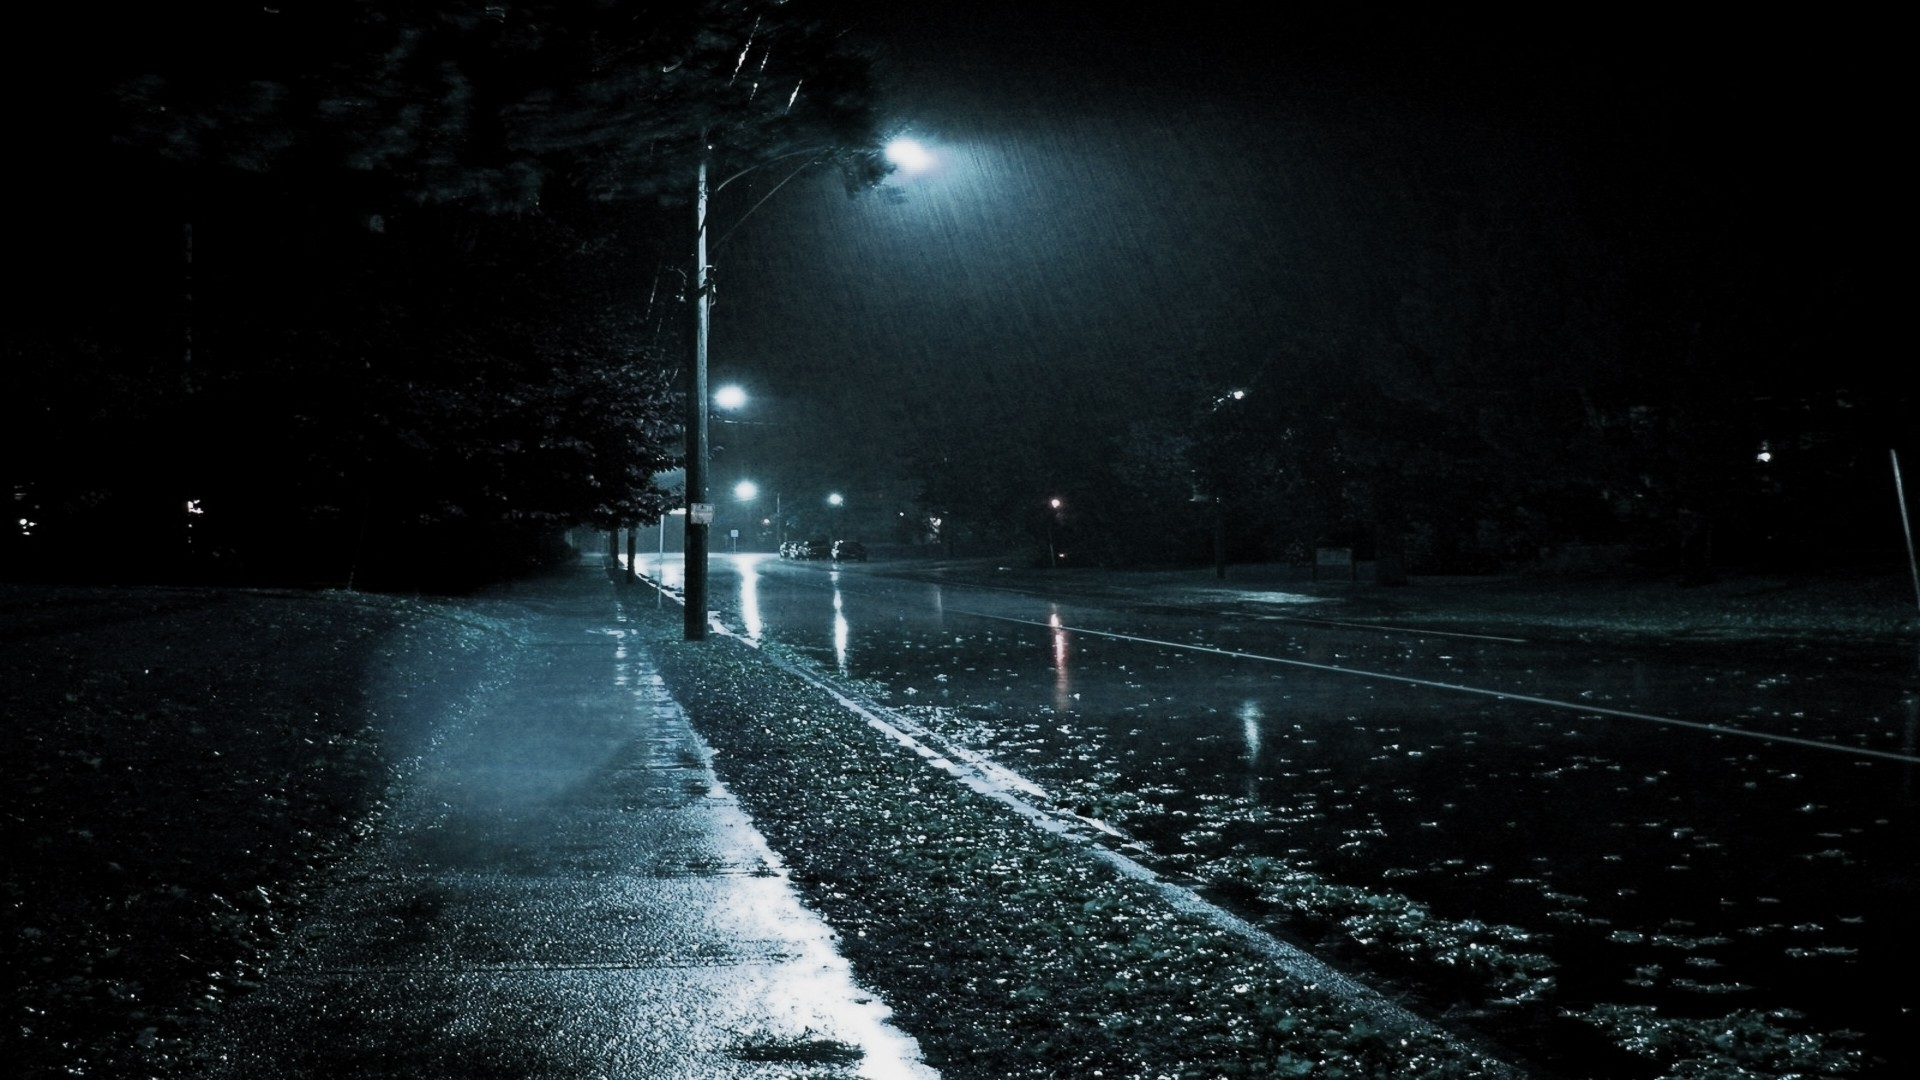
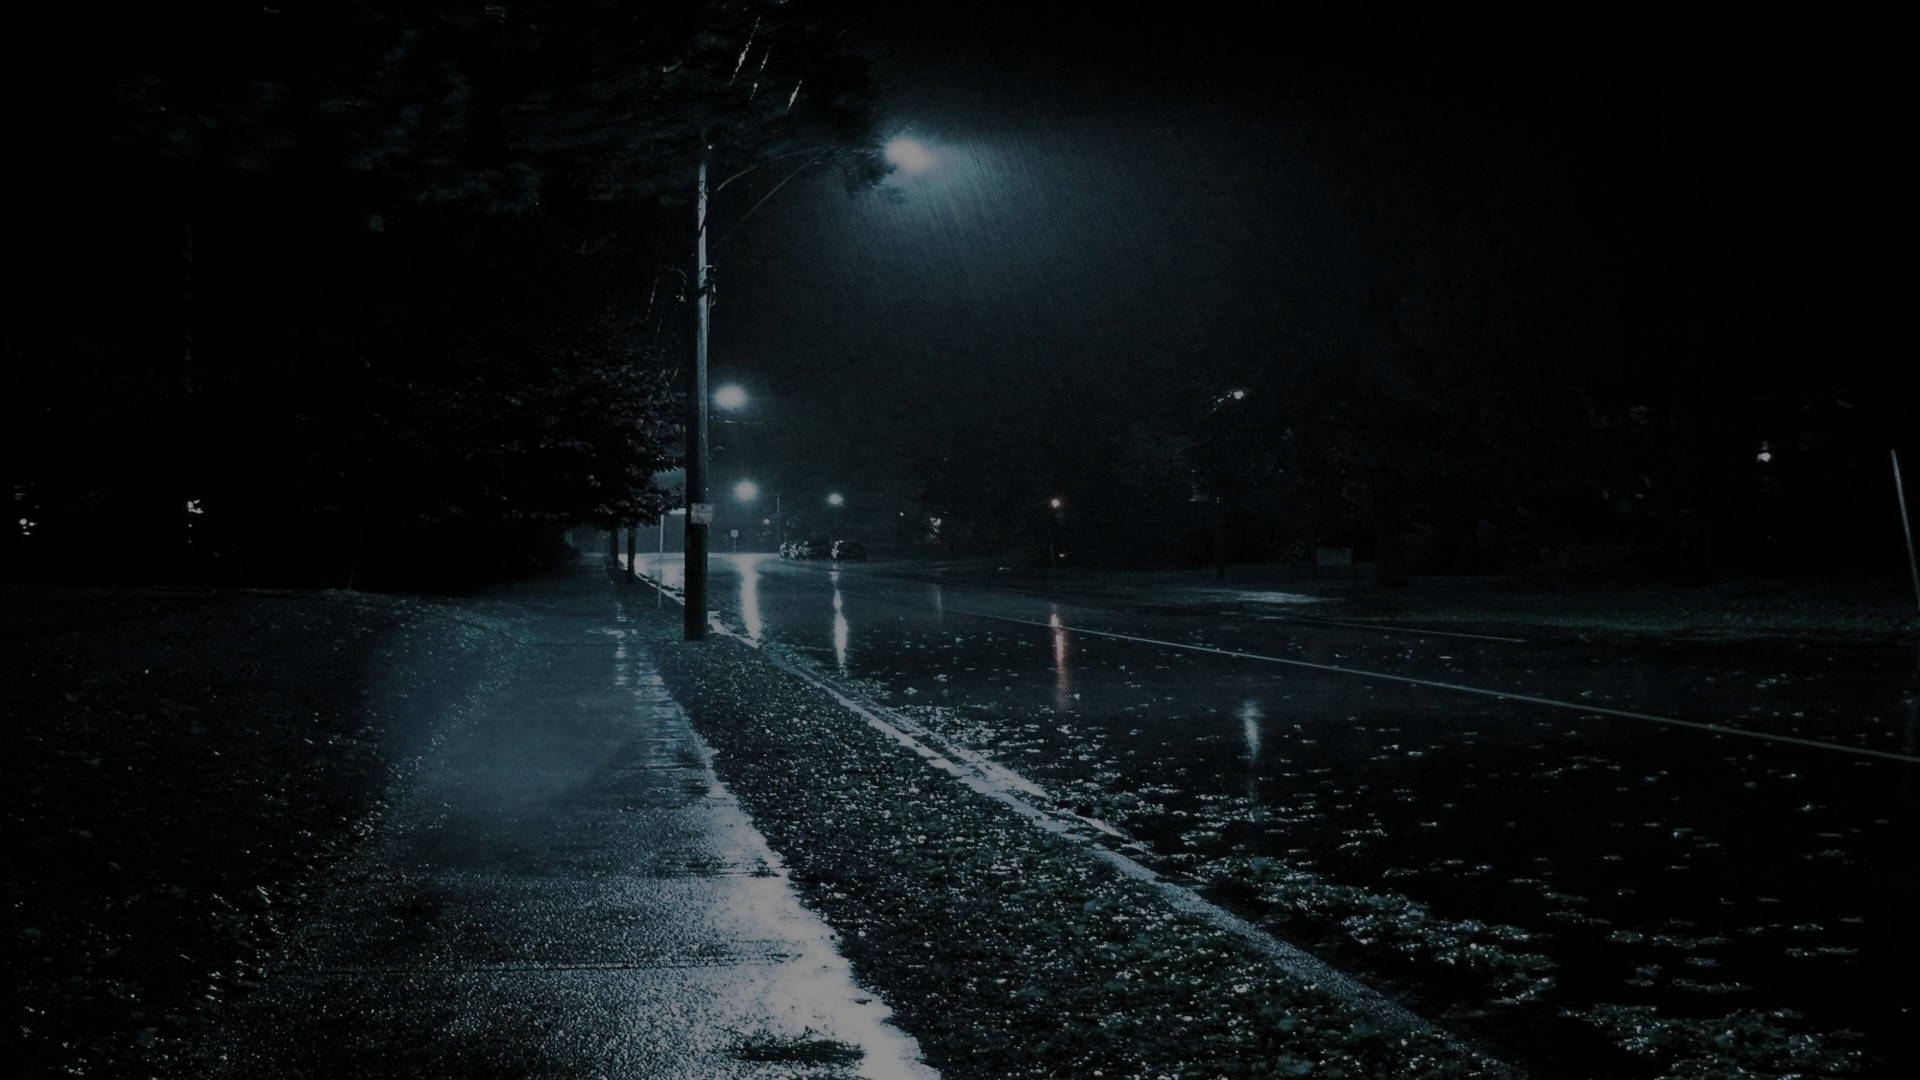
Adds a tag to give random background

diff --git a/duxomusic/templates/base.html b/duxomusic/templates/base.html
@@ -1,4 +1,4 @@
-{% load cms_tags staticfiles sekizai_tags cache menu_tags %}
+{% load cms_tags staticfiles sekizai_tags cache menu_tags duxomusic_tags %}
 
 <!doctype html>
 <html lang="fr">
@@ -41,10 +41,11 @@
         <link href="{{ STATIC_URL }}css/screen.css" rel="stylesheet" type="text/css"/>
 
 		{% render_block "css" %}
+        {% get_bg as bg %}
 
         <style>
             body, #sb-site {
-                background: url({{ STATIC_URL }}img/sunset.jpg) no-repeat center top / 100% auto black fixed;
+            background: url({{ STATIC_URL }}img/{{ bg }}) no-repeat center center black fixed;
             }
         </style>
 	</head>
@@ -58,12 +59,6 @@
                 <h1>
                     <a href="/" title="Accueil"><img src="{{ STATIC_URL }}img/big-logo.png" alt="Dux'O music"/></a>
                 </h1>
-                <a href="#" title="Menu" class="sb-toggle-right"><i class="fa fa-bars">&nbsp;</i></a>
-                <!--<nav>-->
-                    <!--<ul>-->
-                        <!--{% show_menu 0 100 100 100 "menu.html" %}-->
-                    <!--</ul>-->
-                <!--</nav>-->
             </header>
             <article id="wrap" {% if framework == 'angular_bootstrap3' %}ng-app="myApp"{% endif %}>
                 {% block sections %}{% endblock %}

diff --git a/duxomusic/static/css/screen.css b/duxomusic/static/css/screen.css
@@ -303,7 +303,7 @@ a, a:hover, a:visited, a:focus {
 
 /* line 187, ../sass/_modern-less.scss */
 section.block {
-  background: rgba(0, 0, 0, 0.7);
+  background: rgba(0, 0, 0, 0.8);
   -moz-border-radius: 3px;
   -webkit-border-radius: 3px;
   border-radius: 3px;
@@ -475,7 +475,7 @@ h1.title-divider {
   font-family: "Cinzel Decorative", cursive;
   font-size: 1.4em;
   text-align: center;
-  text-shadow: rgba(255, 255, 255, 0.7) 0 0 5px;
+  text-shadow: rgba(255, 255, 255, 0.7) 0 0 5px, rgba(0, 0, 0, 0.85) 2px 2px 2px;
 }
 /* line 7, ../sass/title_divider/_title_divider.scss */
 h1.title-divider:before, h1.title-divider:after {

diff --git a/duxomusic/static/sass/title_divider/_title_divider.scss b/duxomusic/static/sass/title_divider/_title_divider.scss
@@ -2,7 +2,7 @@ h1.title-divider {
   font-family: "Cinzel Decorative", cursive;
   font-size: 1.4em;
   text-align: center;
-  @include text-shadow(rgba(255,255,255,0.7) 0 0 5px);
+  @include text-shadow(rgba(255,255,255,0.7) 0 0 5px, rgba(0,0,0,0.85) 2px 2px 2px);
 
   &:before, &:after {
     content: "";

diff --git a/duxomusic/static/sass/screen.scss b/duxomusic/static/sass/screen.scss
@@ -5,7 +5,7 @@ $break-small: 240px;
 $break-medium: 859px;
 $break-large: 1183px;
 $font: "Poiret One";
-$black-back: rgba(0,0,0,0.7);
+$black-back: rgba(0,0,0,0.8);
 
 @mixin respond-to($medias...) {
     @if index($medias, handhelds) {

diff --git a/duxomusic/settings.py b/duxomusic/settings.py
@@ -1,7 +1,6 @@
 # -*- coding:utf-8 -*-
 # Django settings for unit test project.
 import os
-import sys
 
 DEBUG = bool(os.environ.get('DEBUG', False))
 
@@ -146,12 +145,11 @@ USE_TZ = True
 
 LANGUAGE_CODE = 'fr'
 LANGUAGES = (
-    # ('en-us', 'English'),
     ('fr', 'French'),
 )
 
 SESSION_SERIALIZER = 'django.contrib.sessions.serializers.PickleSerializer'  # class to serialize session data
-SESSION_ENGINE = django.contrib.sessions.backends.db
+SESSION_ENGINE = 'django.contrib.sessions.backends.db'
 
 #############################################################
 #

diff --git a/nm_msgs/templatetags/nm_msgs_tags.py b/nm_msgs/templatetags/nm_msgs_tags.py
@@ -1,6 +1,5 @@
 __author__ = 'hadrien'
 from django import template
-import json, re
 
 
 register = template.Library()
@@ -8,7 +7,6 @@ register = template.Library()
 
 @register.assignment_tag(takes_context=True)
 def nm_msgs(context, namespace=None):
-    print 'toto'
     return __get_nm_msgs(context, namespace=namespace).get('categories', None)
 
 

diff --git a/duxomusic/templatetags/duxomusic_tags.py b/duxomusic/templatetags/duxomusic_tags.py
@@ -1,0 +1,13 @@
+__author__ = 'hadrien'
+import random
+
+from django import template
+
+
+register = template.Library()
+backgrounds = ['forest.jpg', 'crows.jpg', 'cat.jpg']
+
+
+@register.assignment_tag()
+def get_bg():
+    return random.choice(backgrounds)

diff --git a/duxomusic/templatetags/__init__.py b/duxomusic/templatetags/__init__.py
@@ -1,0 +1,1 @@
+__author__ = 'hadrien'
